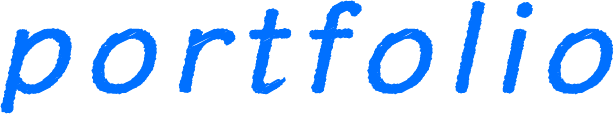
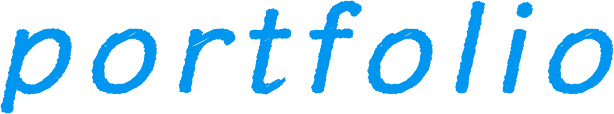
[fix]キャッチコピーカラー

diff --git a/src/scss/Object/Project/_animation-background.scss b/src/scss/Object/Project/_animation-background.scss
@@ -222,7 +222,7 @@
         z-index: 300;
       }
       span {        
-        background: url(../img/portfolio.png) 0% / cover;
+        background: url(../img/portfolio.png) 0% / cover;     
         display: block;
         aspect-ratio: 50 / 9;
         width: 100vw;

diff --git a/front-page.php b/front-page.php
@@ -237,7 +237,7 @@
                   <img src="<?php echo esc_url(get_template_directory_uri()); ?>/img/icons8-jquery-50.png" alt="jQuery" class="icon">
                 </div>
                 <h5 class="title">
-                  <p class="c-title--content">Query</p>
+                  <p class="c-title--content">jQuery</p>
                 </h5>
                 <div class="hour">
                   <p class="hour__description">学習<br>時間</p>
